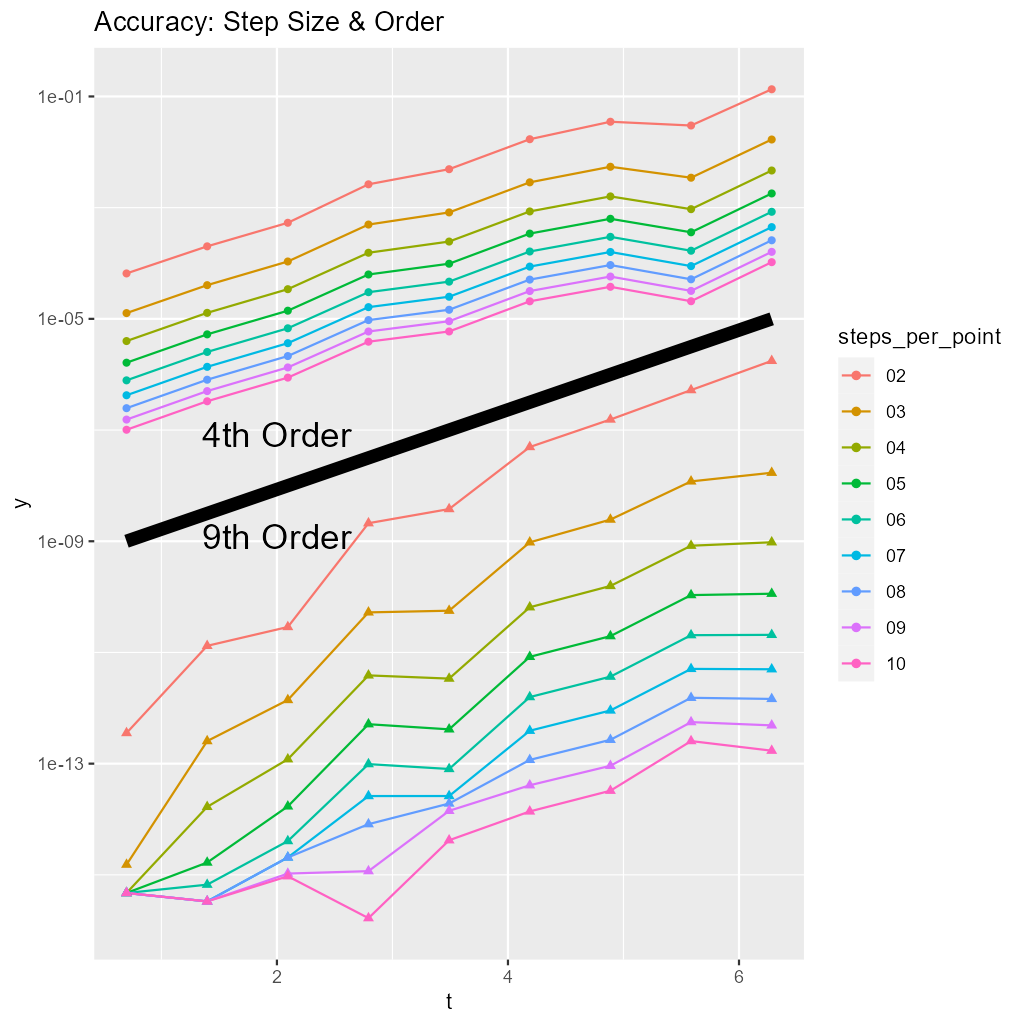
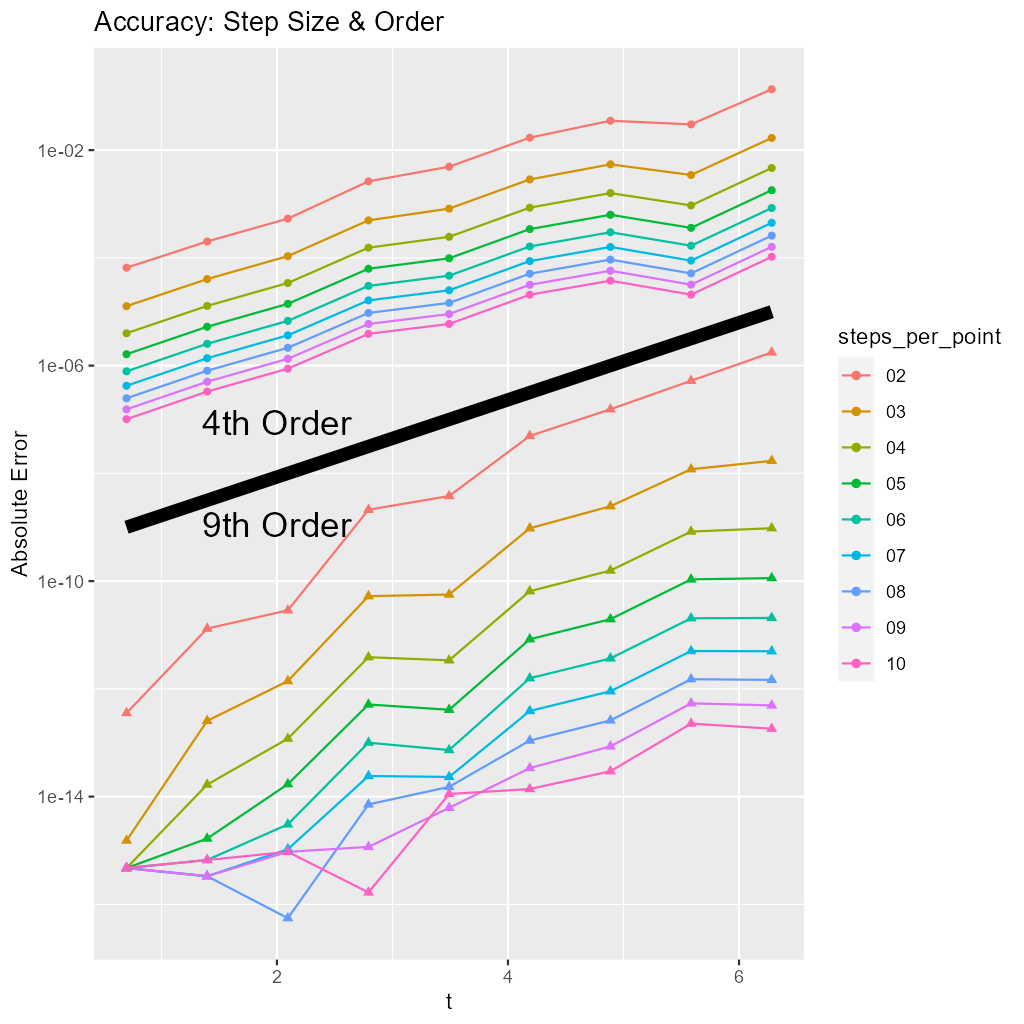
Better R code

diff --git a/docs/ex_step_order_vs_error.html b/docs/ex_step_order_vs_error.html
@@ -3,7 +3,7 @@
 "http://www.w3.org/TR/xhtml1/DTD/xhtml1-strict.dtd">
 <html xmlns="http://www.w3.org/1999/xhtml" lang="en" xml:lang="en">
 <head>
-<!-- 2025-08-06 Wed 23:27 -->
+<!-- 2025-08-07 Thu 14:47 -->
 <meta http-equiv="Content-Type" content="text/html;charset=utf-8" />
 <meta name="viewport" content="width=1024, initial-scale=1" />
 <title>MRKISS Library Example</title>
@@ -267,12 +267,12 @@
 
 <tr>
 <td class="org-right"><b>Updated:</b></td>
-<td class="org-left"><i>2025-08-06 23:27:06</i></td>
+<td class="org-left"><i>2025-08-07 14:47:50</i></td>
 </tr>
 
 <tr>
 <td class="org-right"><b>Generated:</b></td>
-<td class="org-left"><i>2025-08-06 23:27:07</i></td>
+<td class="org-left"><i>2025-08-07 14:47:52</i></td>
 </tr>
 </tbody>
 </table>
@@ -303,7 +303,7 @@ Additionally the code may be found at the end of this document in the section <a
 </p>
 
 <p>
-This example solves a smple test system:
+This example solves a test system:
 </p>
 
 <p>
@@ -311,17 +311,25 @@ This example solves a smple test system:
 </p>
 
 <p>
+We can solve this equation symbolically:
+</p>
+
+<p>
+\[ y'\frac{\sin(t^2)}{2} \]  
+</p>
+
+<p>
 Here are a copule plots
 </p>
 
 
-<div id="orgffeaeb3" class="figure">
+<div id="org7aedd84" class="figure">
 <p><img src="pics/step_order_vs_error_soly.png" alt="step_order_vs_error_soly.png" width="90%" align="center" />
 </p>
 </div>
 
 
-<div id="orgd16a3b2" class="figure">
+<div id="org66bcbda" class="figure">
 <p><img src="pics/step_order_vs_error_sold.png" alt="step_order_vs_error_sold.png" width="90%" align="center" />
 </p>
 </div>
@@ -332,7 +340,7 @@ plot:
 </p>
 
 
-<div id="orgb9c482f" class="figure">
+<div id="org6339a57" class="figure">
 <p><img src="pics/step_order_vs_error_err.png" alt="step_order_vs_error_err.png" width="90%" align="center" />
 </p>
 </div>
@@ -408,48 +416,35 @@ The images were produced with R.
 
 <div class="org-src-container">
 <pre class="src src-R">
-<span style="color: #ffa500;">#</span><span style="color: #ff7f24;">------------------------------------------------------------------------------------------------------------------------------</span>
+<span style="color: #ffa500;">#</span><span style="color: #ff7f24;">---------------------------------------------------------------------------------------------------------------------------</span>
 crvDat <span style="color: #8470ff; font-weight: bold;">&lt;-</span> data.table(t=seq(0,2*pi, length.out=500)) <span style="color: #8470ff; font-weight: bold;">%&gt;%</span> mutate(truy1=sin(t*t)/2)
 drvDat <span style="color: #8470ff; font-weight: bold;">&lt;-</span> data.table(t=seq(0,2*pi, length.out=500)) <span style="color: #8470ff; font-weight: bold;">%&gt;%</span> mutate(trudy1=t*cos(t*t))
 
-<span style="color: #ffa500;">#</span><span style="color: #ff7f24;">------------------------------------------------------------------------------------------------------------------------------</span>
+<span style="color: #ffa500;">#</span><span style="color: #ff7f24;">---------------------------------------------------------------------------------------------------------------------------</span>
 truDat <span style="color: #8470ff; font-weight: bold;">&lt;-</span> data.table(t=seq(0,2*pi, length.out=10)) <span style="color: #8470ff; font-weight: bold;">%&gt;%</span> transmute(truy1=sin(t*t)/2)
 
-<span style="color: #ffa500;">#</span><span style="color: #ff7f24;">------------------------------------------------------------------------------------------------------------------------------</span>
-solDat <span style="color: #8470ff; font-weight: bold;">&lt;-</span> rbind(cbind(fread(<span style="color: #fa8072;">'step_order_vs_error_04_01.csv'</span>), truDat) <span style="color: #8470ff; font-weight: bold;">%&gt;%</span> mutate(err=abs(y1-truy1), order=<span style="color: #fa8072;">'4th Order'</span>, steps_per_point=<span style="color: #fa8072;">'01'</span>),
-                cbind(fread(<span style="color: #fa8072;">'step_order_vs_error_04_02.csv'</span>), truDat) <span style="color: #8470ff; font-weight: bold;">%&gt;%</span> mutate(err=abs(y1-truy1), order=<span style="color: #fa8072;">'4th Order'</span>, steps_per_point=<span style="color: #fa8072;">'02'</span>),
-                cbind(fread(<span style="color: #fa8072;">'step_order_vs_error_04_03.csv'</span>), truDat) <span style="color: #8470ff; font-weight: bold;">%&gt;%</span> mutate(err=abs(y1-truy1), order=<span style="color: #fa8072;">'4th Order'</span>, steps_per_point=<span style="color: #fa8072;">'03'</span>),
-                cbind(fread(<span style="color: #fa8072;">'step_order_vs_error_04_04.csv'</span>), truDat) <span style="color: #8470ff; font-weight: bold;">%&gt;%</span> mutate(err=abs(y1-truy1), order=<span style="color: #fa8072;">'4th Order'</span>, steps_per_point=<span style="color: #fa8072;">'04'</span>),
-                cbind(fread(<span style="color: #fa8072;">'step_order_vs_error_04_05.csv'</span>), truDat) <span style="color: #8470ff; font-weight: bold;">%&gt;%</span> mutate(err=abs(y1-truy1), order=<span style="color: #fa8072;">'4th Order'</span>, steps_per_point=<span style="color: #fa8072;">'05'</span>),
-                cbind(fread(<span style="color: #fa8072;">'step_order_vs_error_04_06.csv'</span>), truDat) <span style="color: #8470ff; font-weight: bold;">%&gt;%</span> mutate(err=abs(y1-truy1), order=<span style="color: #fa8072;">'4th Order'</span>, steps_per_point=<span style="color: #fa8072;">'06'</span>),
-                cbind(fread(<span style="color: #fa8072;">'step_order_vs_error_04_07.csv'</span>), truDat) <span style="color: #8470ff; font-weight: bold;">%&gt;%</span> mutate(err=abs(y1-truy1), order=<span style="color: #fa8072;">'4th Order'</span>, steps_per_point=<span style="color: #fa8072;">'07'</span>),
-                cbind(fread(<span style="color: #fa8072;">'step_order_vs_error_04_08.csv'</span>), truDat) <span style="color: #8470ff; font-weight: bold;">%&gt;%</span> mutate(err=abs(y1-truy1), order=<span style="color: #fa8072;">'4th Order'</span>, steps_per_point=<span style="color: #fa8072;">'08'</span>),
-                cbind(fread(<span style="color: #fa8072;">'step_order_vs_error_04_09.csv'</span>), truDat) <span style="color: #8470ff; font-weight: bold;">%&gt;%</span> mutate(err=abs(y1-truy1), order=<span style="color: #fa8072;">'4th Order'</span>, steps_per_point=<span style="color: #fa8072;">'09'</span>),
-                cbind(fread(<span style="color: #fa8072;">'step_order_vs_error_04_10.csv'</span>), truDat) <span style="color: #8470ff; font-weight: bold;">%&gt;%</span> mutate(err=abs(y1-truy1), order=<span style="color: #fa8072;">'4th Order'</span>, steps_per_point=<span style="color: #fa8072;">'10'</span>),
-                cbind(fread(<span style="color: #fa8072;">'step_order_vs_error_09_01.csv'</span>), truDat) <span style="color: #8470ff; font-weight: bold;">%&gt;%</span> mutate(err=abs(y1-truy1), order=<span style="color: #fa8072;">'9th Order'</span>, steps_per_point=<span style="color: #fa8072;">'01'</span>),
-                cbind(fread(<span style="color: #fa8072;">'step_order_vs_error_09_02.csv'</span>), truDat) <span style="color: #8470ff; font-weight: bold;">%&gt;%</span> mutate(err=abs(y1-truy1), order=<span style="color: #fa8072;">'9th Order'</span>, steps_per_point=<span style="color: #fa8072;">'02'</span>),
-                cbind(fread(<span style="color: #fa8072;">'step_order_vs_error_09_03.csv'</span>), truDat) <span style="color: #8470ff; font-weight: bold;">%&gt;%</span> mutate(err=abs(y1-truy1), order=<span style="color: #fa8072;">'9th Order'</span>, steps_per_point=<span style="color: #fa8072;">'03'</span>),
-                cbind(fread(<span style="color: #fa8072;">'step_order_vs_error_09_04.csv'</span>), truDat) <span style="color: #8470ff; font-weight: bold;">%&gt;%</span> mutate(err=abs(y1-truy1), order=<span style="color: #fa8072;">'9th Order'</span>, steps_per_point=<span style="color: #fa8072;">'04'</span>),
-                cbind(fread(<span style="color: #fa8072;">'step_order_vs_error_09_05.csv'</span>), truDat) <span style="color: #8470ff; font-weight: bold;">%&gt;%</span> mutate(err=abs(y1-truy1), order=<span style="color: #fa8072;">'9th Order'</span>, steps_per_point=<span style="color: #fa8072;">'05'</span>),
-                cbind(fread(<span style="color: #fa8072;">'step_order_vs_error_09_06.csv'</span>), truDat) <span style="color: #8470ff; font-weight: bold;">%&gt;%</span> mutate(err=abs(y1-truy1), order=<span style="color: #fa8072;">'9th Order'</span>, steps_per_point=<span style="color: #fa8072;">'06'</span>),
-                cbind(fread(<span style="color: #fa8072;">'step_order_vs_error_09_07.csv'</span>), truDat) <span style="color: #8470ff; font-weight: bold;">%&gt;%</span> mutate(err=abs(y1-truy1), order=<span style="color: #fa8072;">'9th Order'</span>, steps_per_point=<span style="color: #fa8072;">'07'</span>),
-                cbind(fread(<span style="color: #fa8072;">'step_order_vs_error_09_08.csv'</span>), truDat) <span style="color: #8470ff; font-weight: bold;">%&gt;%</span> mutate(err=abs(y1-truy1), order=<span style="color: #fa8072;">'9th Order'</span>, steps_per_point=<span style="color: #fa8072;">'08'</span>),
-                cbind(fread(<span style="color: #fa8072;">'step_order_vs_error_09_09.csv'</span>), truDat) <span style="color: #8470ff; font-weight: bold;">%&gt;%</span> mutate(err=abs(y1-truy1), order=<span style="color: #fa8072;">'9th Order'</span>, steps_per_point=<span style="color: #fa8072;">'09'</span>),
-                cbind(fread(<span style="color: #fa8072;">'step_order_vs_error_09_10.csv'</span>), truDat) <span style="color: #8470ff; font-weight: bold;">%&gt;%</span> mutate(err=abs(y1-truy1), order=<span style="color: #fa8072;">'9th Order'</span>, steps_per_point=<span style="color: #fa8072;">'10'</span>)) <span style="color: #8470ff; font-weight: bold;">%&gt;%</span> filter(i&gt;1 &amp; steps_per_point!=<span style="color: #fa8072;">'01'</span>)
+<span style="color: #ffa500;">#</span><span style="color: #ff7f24;">---------------------------------------------------------------------------------------------------------------------------</span>
+solDat <span style="color: #8470ff; font-weight: bold;">&lt;-</span> do.call(rbind, lapply(list.files(pattern = <span style="color: #fa8072;">"^step_order_vs_error_[0-9][0-9]_[0-9][0-9]\\.csv$"</span>), 
+                                <span style="color: #00ffff;">function</span>(f) { 
+                                  rko=first(strsplit(f, <span style="color: #fa8072;">"[_.]"</span>))[5];
+                                  spp=first(strsplit(f, <span style="color: #fa8072;">"[_.]"</span>))[6];
+                                  cbind(fread(f), truDat) <span style="color: #8470ff; font-weight: bold;">%&gt;%</span> 
+                                    mutate(err=abs(y1-truy1), order=rko, steps_per_point=spp); })) <span style="color: #8470ff; font-weight: bold;">%&gt;%</span> 
+  filter(i&gt;1 &amp; steps_per_point!=<span style="color: #fa8072;">'01'</span>)
 
-<span style="color: #ffa500;">#</span><span style="color: #ff7f24;">------------------------------------------------------------------------------------------------------------------------------</span>
+<span style="color: #ffa500;">#</span><span style="color: #ff7f24;">---------------------------------------------------------------------------------------------------------------------------</span>
 gp <span style="color: #8470ff; font-weight: bold;">&lt;-</span> ggplot(crvDat) +
   geom_line(aes(x=t, y=truy1)) +
   labs(title=<span style="color: #fa8072;">'Solution'</span>, x=<span style="color: #fa8072;">'t'</span>, y=<span style="color: #fa8072;">'y'</span>) 
 ggsave(filename=<span style="color: #fa8072;">'step_order_vs_error_soly.png'</span>, plot=gp, width=1024, height=800, units=<span style="color: #fa8072;">'px'</span>, dpi=150)
 
-<span style="color: #ffa500;">#</span><span style="color: #ff7f24;">------------------------------------------------------------------------------------------------------------------------------</span>
+<span style="color: #ffa500;">#</span><span style="color: #ff7f24;">---------------------------------------------------------------------------------------------------------------------------</span>
 gp <span style="color: #8470ff; font-weight: bold;">&lt;-</span> ggplot(drvDat) +
   geom_line(aes(x=t, y=trudy1)) +
   labs(title=<span style="color: #fa8072;">'Solution Derivative'</span>, x=<span style="color: #fa8072;">'t'</span>, y=<span style="color: #fa8072;">'y'</span>) 
 ggsave(filename=<span style="color: #fa8072;">'step_order_vs_error_sold.png'</span>, plot=gp, width=1024, height=800, units=<span style="color: #fa8072;">'px'</span>, dpi=150)
 
-<span style="color: #ffa500;">#</span><span style="color: #ff7f24;">------------------------------------------------------------------------------------------------------------------------------</span>
+<span style="color: #ffa500;">#</span><span style="color: #ff7f24;">---------------------------------------------------------------------------------------------------------------------------</span>
 gp <span style="color: #8470ff; font-weight: bold;">&lt;-</span> ggplot(solDat) +
   geom_line( aes(x=t, y=err, shape=order, col=steps_per_point)) +
   geom_point(aes(x=t, y=err, shape=order, col=steps_per_point)) +
@@ -461,7 +456,7 @@ gp <span style="color: #8470ff; font-weight: bold;">&lt;-</span> ggplot(solDat) 
            yend = 1e-5,
            linewidth=3) +
   scale_y_log10() +
-  labs(title=<span style="color: #fa8072;">'Accuracy: Step Size &amp; Order'</span>, x=<span style="color: #fa8072;">'t'</span>, y=<span style="color: #fa8072;">'y'</span>) +
+  labs(title=<span style="color: #fa8072;">'Accuracy: Step Size &amp; Order'</span>, x=<span style="color: #fa8072;">'t'</span>, y=<span style="color: #fa8072;">'Absolute Error'</span>) +
   guides(shape = <span style="color: #fa8072;">"none"</span>)
 print(gp)
 ggsave(filename=<span style="color: #fa8072;">'step_order_vs_error_err.png'</span>, plot=gp, width=1024, height=1024, units=<span style="color: #fa8072;">'px'</span>, dpi=150)
